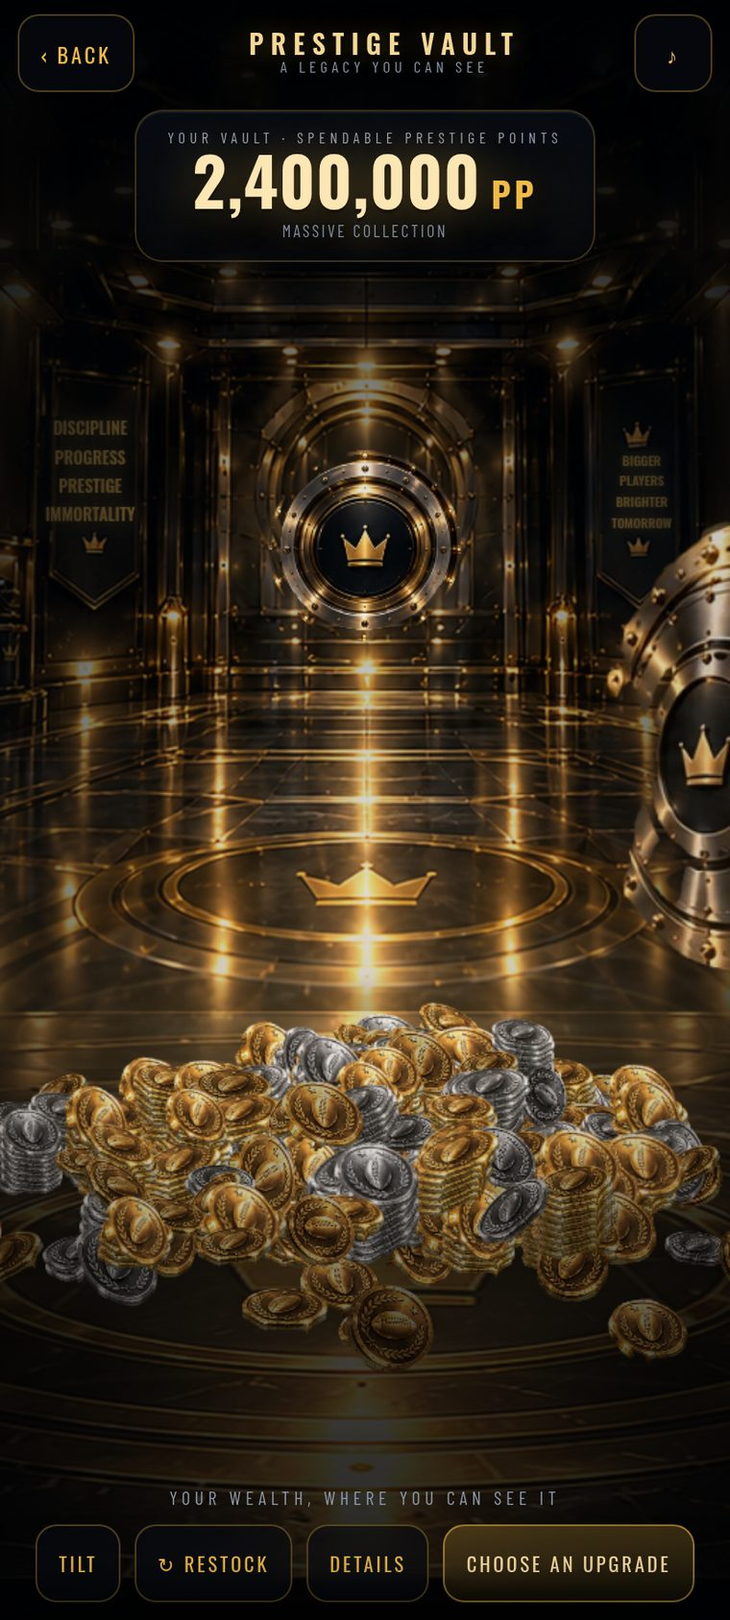
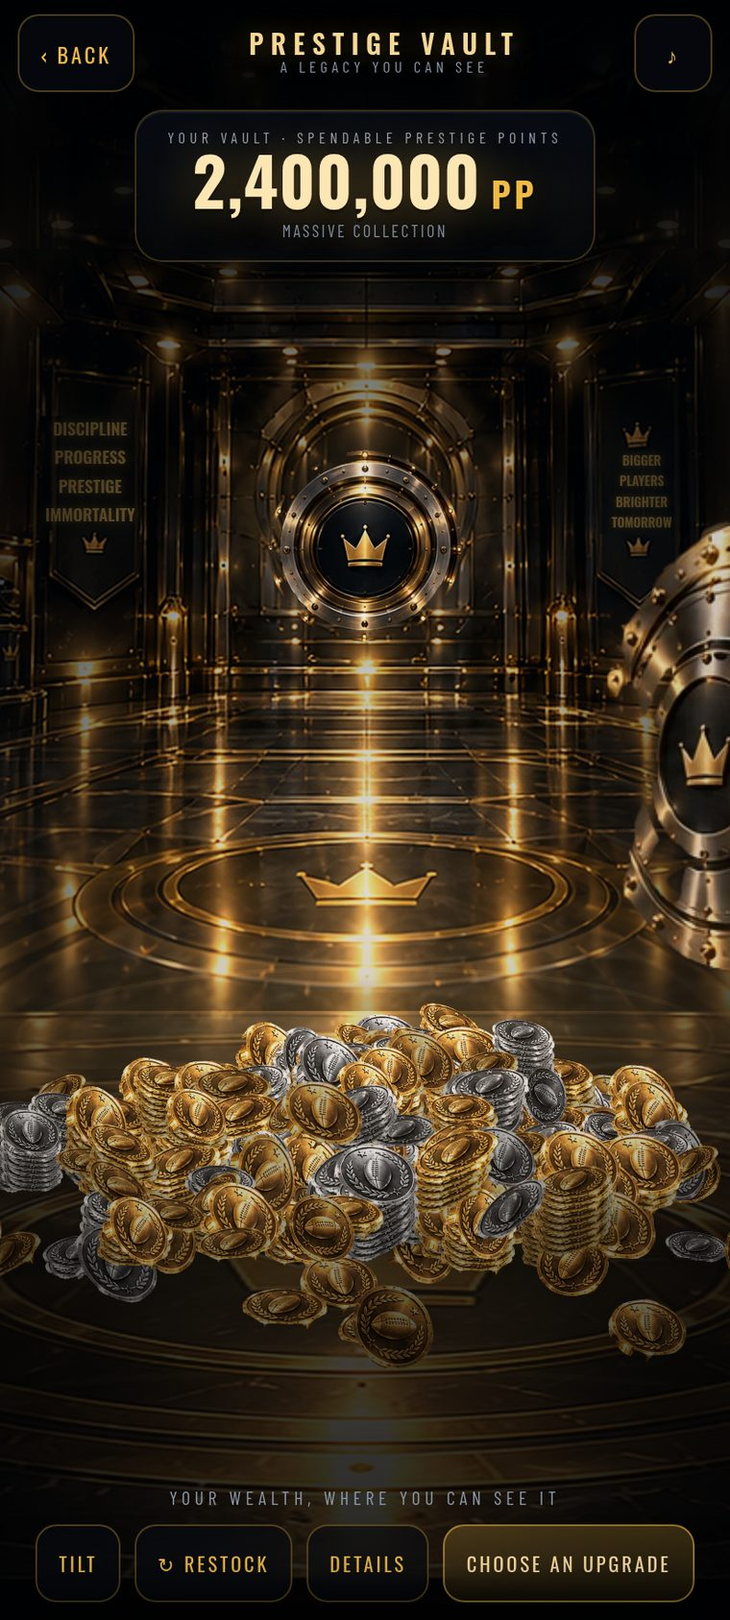
v137 D: the towers topple, the coins roll, and the money stays in the picture
"Coins float in the air and go offscreen. What I wanted is so coins stacked on top of one
another would fall down the pile, roll, etc. Be heavily impacted by gravity, while remaining
on screen."

Measured before touching anything: under a hard tilt, 77 of 90 bodies ended up at gx -1.99
projecting to screen x -298..-34 on a 412-wide phone, and nothing was airborne at all
(maxAir 2e-21). Both symptoms were one cause — the physics room had nothing to do with the
picture.

THE ROOM IS WHAT YOU CAN SEE. The wall was derived from the slot list's own outermost spill,
a ground coordinate with no relation to the viewport: it sat at gx 1.99 where the screen edge
is about 0.8. `limAt(gz)` inverts the projection at the coin's own depth instead, so a coin
stops at the edge of the FRAME whatever the aspect ratio. And gz was free to 0.55 when the
hoard is 0.12 deep, so coins wandered into the back of the room where the perspective draws
them high and small — which is the whole of what "floating in the air" was. Nothing was ever
off the ground; it was standing on the floor behind the heap. The hoard's own spill does
legitimately sit past the frame edge, so a coin that WAKES out there is not teleported in: it
simply cannot go further out, and once it comes inside it is held inside.

A COLUMN COMES APART. A stack was one rigid body, so tipping the phone slid the whole tower
across the floor like a bar of soap and stood it against the wall intact. A driven column now
[…]

Changed region(s): [[0.0, 0.6165, 0.9987, 0.8322], [0.4842, 0.3699, 0.5145, 0.4007], [0.4842, 0.2774, 0.5145, 0.3082]]

diff --git a/public/rib-vault.js b/public/rib-vault.js
@@ -650,7 +650,7 @@
     x.translate(px, py);
     if (rot) x.rotate(rot);
     // the edge of the coin, under its face
-    var thk = (THICK[kind] || 0) * size * (thickMul == null ? 1 : thickMul);
+    var thk = this.lite ? 0 : (THICK[kind] || 0) * size * (thickMul == null ? 1 : thickMul);
     if (thk > 0.55 && size > 8) {
       var rim = this.coinImg(den, kind, 0);
       if (rim) {
@@ -724,7 +724,10 @@
    * light climbs with it, so the top catches more than the buried foot. A fifth of the
    * taller ones carry a coin lying askew across the top. */
   Scene.prototype.drawStack = function (x, sl, den, px, py, size, shadeIx) {
-    var k = sl.cnt, step = size * 0.086;
+    return this.drawStackN(x, sl, den, px, py, size, shadeIx, sl.cnt);
+  };
+  Scene.prototype.drawStackN = function (x, sl, den, px, py, size, shadeIx, n) {
+    var k = Math.max(1, n | 0), step = size * 0.086;
     var wx = Math.cos(sl.lean) * size * 0.085, wy = Math.sin(sl.lean) * size * 0.030;
     var rot = (sl.rot - Math.PI) * 0.16;
     var j, sx, sy, ix;
@@ -735,8 +738,8 @@
       ix = Math.min(3, shadeIx + (j > k * 0.58 ? 1 : 0));    // the light climbs the column
       this.drawCoin(x, den, 'flat', sx, sy, size, rot + t * 0.10, null, ix, null, 0.55);
     }
-    if (sl.capped) {
-      this.drawCoin(x, den, 'hero', px + wx + (Math.random() - 0.5) * 0, py - (k - 0.30) * step,
+    if (sl.capped && k === sl.cnt) {          // the coin lying across the top goes first
+      this.drawCoin(x, den, 'hero', px + wx, py - (k - 0.30) * step,
         size * 0.95, sl.capRot, null, Math.min(3, shadeIx + 1), null);
     }
   };
@@ -744,6 +747,11 @@
   Scene.prototype.drawHoard = function (x) {
     var n = Math.round(this.nShown);
     if (n <= 0) return;
+    /* The live band is deliberately NOT tied to the quality flip. It sets where the deep
+     * layer ends, so changing it changes the bake key and re-draws 1700 sprites on the very
+     * frame the scene decided it was behind — a 160ms stall caused by the attempt to avoid
+     * one. Lite mode saves its frame by dropping the edge pass and capping bodies instead,
+     * neither of which moves this boundary. */
     var live = Math.min(n, Math.max(40, Math.round(this.slots.coins * 0.16)));
     var deepN = Math.max(0, n - live);
     this.bakeDeep(deepN);
@@ -1105,8 +1113,21 @@
     this.drawSparks(x);
     this.drawDoor(x, now);
     this.drawAir(x, now);
-    // an honest frame-time watch: three slow seconds and the scene sheds detail
+    /* ADAPTIVE QUALITY. The worst case is the biggest hoard on a high-density phone with a
+     * tilt running: ~270 live surface coins plus a couple of hundred loose bodies, each of
+     * which draws its face AND its edge. Measured, that is about a thousand drawImage calls
+     * a frame and it falls to the mid thirties. Rather than let it, the scene watches its
+     * own frame time and drops the edge pass and half the live band when it has to — the
+     * hoard loses a little of its metal, and keeps its frame rate. */
     this.frames++;
+    this.ft = this.ft == null ? dt : this.ft * 0.9 + dt * 0.1;
+    /* The flip must NOT force a re-bake: the deep layer is 1700 sprites and re-drawing it
+     * on the frame the scene decided it was struggling costs a 160ms stall, which is the
+     * one thing the decision was made to avoid. It keeps whatever it last baked — a static
+     * backdrop with or without its edge pass is not something the eye catches mid-tilt —
+     * and picks the new setting up on its next ordinary re-bake. */
+    if (this.ft > 21 && !this.lite) this.lite = true;
+    else if (this.ft < 14.5 && this.lite) this.lite = false;
     if (dt > 34) this.slow++; else if (this.slow > 0) this.slow -= 0.02;
   };
 })();
@@ -1889,17 +1910,27 @@
   var M = window.__RIB_VAULT_MODEL, S = window.__RIB_VAULT_SCENE, C = window.__RIB_VAULT_CTRL;
   var Scene = S.Scene, PILE = S.PILE, MOUND = M.MOUND, Vault = C.Vault;
 
-  var MAX_BODIES = 150;          // an intelligently bounded number of moving objects
+  var MAX_BODIES = 420;          /* an intelligently bounded number of moving objects. A
+   * settled shard costs a lookup and a draw, which is what a hoard slot costs anyway, so
+   * the ceiling is about draw calls rather than about physics — and it has to be well clear
+   * of the woken column count or the last towers to reach the wall cannot come apart and
+   * stand there intact while everything around them has collapsed. */
   var SLEEP_V = 0.00035;         // ground units per ms below which a coin is asleep
-  var GRAV = 0.0000105;          // ground units per ms squared
+  var GRAV = 0.0000320;          // ground units per ms squared — coins FALL, they do not drift
   var BOUNCE = 0.34, ROLL = 0.982;
   var MU = 0.42;                 // static friction: metal on metal, and it is most of this
   var SLOPE_K = 0.55;            // ...against the slope a resting hoard already sits on
   var TILT_G = 1.25;             // lateral gravity at full tilt, as a fraction of g
   var STILL_FRAMES = 9;          // consecutive quiet frames before a coin is allowed to sleep
   var TILT_ACCEL = 3.4;          // how hard it drives once the coin has broken loose
-  var MAX_V = 0.0022;            // ground units per ms — the heap is about one unit across
-  var MAX_VY = 0.0030;           // ...and nothing leaves the room upward
+  var MAX_V = 0.0030;            // ground units per ms — the heap is about one unit across
+  var MAX_VY = 0.0060;           // ...and nothing leaves the room upward
+  var SHED_RATE = 0.024;         // chance per ms that a driven column sheds its top coin
+  /* Shedding has to be FAST or the towers survive the trip: at a tenth of this rate a
+   * ten-coin column slid the width of the room still standing up and then stood there
+   * against the wall, which is the one thing a toppling stack must not do. At this rate a
+   * disturbed column is in pieces inside about a third of a second. */
+  var SCREEN_PAD = 26;           // px of viewport a coin is never allowed past
   /* The first pass set MU 0.42 against TILT_G 0.85. A coin's grip is 1 + (m-1)*0.85, so the
    * gold needed 32 degrees of tilt to move and the billion-point coin needed a drive of 0.92
    * against a maximum of 0.85 — it could not move AT ALL, at any angle. These numbers are
@@ -1942,9 +1973,16 @@
     M.reseed();
     this.slots = M.buildSlots(Scene.budget());
     this._bodies = {}; this._nBodies = 0; this.tidyTick = null;
-    this.limX = this.limZ = null;
+    this.limZ = null; this._shardN = 0;
     this.deepKey = ''; this.deepSlots = 0;
     this.setBalance(this.pp, false);
+  };
+
+  /* the widest a coin at this depth can be and still be inside the frame */
+  Scene.prototype.limAt = function (gz) {
+    var k = this.cam.k(PILE.z + gz);
+    var half = (this.cw * 0.5 - SCREEN_PAD) / (k * 0.62 * this.cam.span);
+    return Math.max(0.25, half);
   };
 
   Scene.prototype.bodies = function () { return this._bodies || (this._bodies = {}); };
@@ -1959,13 +1997,55 @@
     var m = massOf(M.denOf(sl, this.mix));
     b[i] = { i: i, gx: sl.x * PILE.dx, gy: sl.y * PILE.dy, gz: sl.z * PILE.dz,
       vx: 0, vy: 0, vz: 0, spin: sl.rot, vs: 0, sleep: false, held: false, t: 0,
-      m: m, bounce: BOUNCE / m, grip: 1 + (m - 1) * 0.85 };
+      cnt: sl.cnt, m: m, bounce: BOUNCE / m, grip: 1 + (m - 1) * 0.85,
+      // the hoard's own outer spill legitimately runs past the frame edge, so a coin that
+      // WAKES out there must not be teleported into view — it is simply not allowed to go
+      // any further out, and once it comes inside the frame it is held inside
+      lim0: Math.abs(sl.x * PILE.dx) };
     this._nBodies = (this._nBodies || 0) + 1;
     return b[i];
   };
   Scene.prototype.sleepAll = function () { this._bodies = {}; this._nBodies = 0; };
 
   /* the tilt the device is at, as a lateral/depth acceleration */
+  /* A COLUMN COMES APART.
+   *
+   * A stack was one rigid body: tip the phone and the whole tower slid across the floor
+   * like a bar of soap, which is not what a stack of coins does. A driven column now SHEDS
+   * from the top — one coin at a time becomes its own body, pushed off the way the heap is
+   * leaning, and it falls and rolls down the slope on its own. The column under it gets
+   * visibly shorter as it goes.
+   *
+   * A shard is not bound to a slot: it is keyed apart so the slot it came from keeps
+   * drawing the coins still in it, and it carries that slot's index only so it knows which
+   * face and which weight it is. RESTOCK deletes shards outright — they have no home to go
+   * back to, and the column they came off is restored by putting its count back. */
+  Scene.prototype.bodyCap = function () { return this.lite ? Math.round(MAX_BODIES * 0.55) : MAX_BODIES; };
+
+  Scene.prototype.shed = function (o) {
+    if (o.shard || o.cnt <= 1) return null;
+    var b = this.bodies();
+    if ((this._nBodies || 0) >= this.bodyCap()) return null;
+    var sl = this.slots.slot[o.i];
+    // the drawn column's step, converted out of screen pixels into ground height
+    var p = this.cam.project(o.gx, o.gy, PILE.z + o.gz, {});
+    var stepPx = p.s * sl.size * 0.086;
+    var lift = Math.max(1e-6, this.cam.k(PILE.z + o.gz) * 0.34 * this.ch);
+    var top = o.gy + (o.cnt - 1) * (stepPx / lift);
+    o.cnt--;
+    var key = 'sh' + (this._shardN = (this._shardN || 0) + 1);
+    var away = (o.gx >= 0 ? 1 : -1);
+    b[key] = { i: o.i, shard: true, cnt: 1,
+      gx: o.gx + away * 0.02, gy: top, gz: o.gz,
+      vx: away * (0.0004 + Math.random() * 0.0011) + o.vx * 0.85,
+      vy: 0.0003 + Math.random() * 0.0004, vz: (Math.random() - 0.5) * 0.0006,
+      spin: sl.rot + Math.random() * 3, vs: (Math.random() - 0.5) * 0.012,
+      sleep: false, held: false, still: 0,
+      m: o.m, bounce: o.bounce, grip: o.grip };
+    this._nBodies++;
+    return b[key];
+  };
+
   Scene.prototype.setTilt = function (gx, gz) {
     this.tiltX = gx; this.tiltZ = gz;
     if (Math.abs(gx) > 0.06 || Math.abs(gz) > 0.06) this.tiltWake();
@@ -1980,7 +2060,8 @@
     var n = M.slotsFor(this.slots, Math.round(this.nShown));
     if (n <= 0) return;
     var lo = Math.max(0, n - Math.max(24, Math.round(this.slots.slot.length * 0.20)));
-    var want = Math.min(MAX_BODIES, 90);
+    var want = Math.min(MAX_BODIES, 80);   // the rest of the budget is for what they shed
+    want = Math.min(want, Math.round(this.bodyCap() * 0.34));
     for (var i = n - 1; i >= lo && (this._nBodies || 0) < want; i--) {
       var bd = this.wake(i);
       if (bd && bd.sleep) bd.sleep = false;
@@ -2049,6 +2130,12 @@
       if (vh > MAX_V) { o.vx *= MAX_V / vh; o.vz *= MAX_V / vh; }
       if (o.vy > MAX_VY) o.vy = MAX_VY;            // a belt on the throw's braces
       if (o.vy < -MAX_VY * 2) o.vy = -MAX_VY * 2;
+      // a column that is being pushed loses its top coin, and that coin goes its own way
+      /* A column sheds when something is PUSHING it sideways — not merely because it is
+       * awake. Including the vertical velocity here meant the first frame of gravity after
+       * a wake (-GRAV*dt, already past the sleep threshold) shed a coin off every column in
+       * the hoard with the phone sitting perfectly level. */
+      if (o.cnt > 1 && (o.driven || vh > SLEEP_V * 2) && Math.random() < SHED_RATE * dt) this.shed(o);
       var gy0 = o.gy;
       o.gx += o.vx * dt; o.gy += o.vy * dt; o.gz += o.vz * dt;
       o.spin += o.vs * dt;
@@ -2066,7 +2153,9 @@
           this.landed(o, hit);                 // the thud, and the dust
         } else o.vy = 0;
         var roll = Math.pow(ROLL, o.grip);
-        o.vx *= roll; o.vz *= roll; o.vs *= 0.93;
+        o.vx *= roll; o.vz *= roll;
+        // it ROLLS: the spin is the ground speed, not a decaying leftover of the throw
+        o.vs = o.vs * 0.55 + (o.vx * 26) * 0.45;
         var sp = Math.abs(o.vx) + Math.abs(o.vz) + Math.abs(o.vy);
         /* A coin that has just broken loose has not reached the sleep threshold YET, so a
          * bare `sp < SLEEP_V` put it to sleep on its very first step and zeroed the velocity
@@ -2080,15 +2169,23 @@
         } else o.still = 0;
       }
       // the room has walls: a coin cannot leave the floor plate
-      /* The room has walls, and they have to be at least as wide as the hoard standing in
-       * it. A fixed 1.55 was narrower than the spilled coins on the heap's own foot reach,
-       * so the first time one of those woke it was teleported inward by up to half a unit —
-       * which is what a "coin jumping for no reason" was. */
-      var lim = this.limX, lz0 = this.limZ;
-      if (lim == null) {
-        lim = this.limX = Math.max(1.55, this.slots.ex * PILE.dx + 0.12);
-        lz0 = this.limZ = Math.max(0.55, this.slots.ez * PILE.dz + 0.06);
-      }
+      /* THE ROOM IS WHAT YOU CAN SEE.
+       *
+       * The wall was derived from the slot list's own outermost spill, which is a ground
+       * coordinate with no relation to the viewport: on a phone it put the wall at gx 1.99
+       * while the screen edge is about gx 0.8, so a tilt slid seventy-seven of ninety coins
+       * clean off the side and left them piled up out of frame. And gz was free to 0.55 when
+       * the hoard itself is only 0.12 deep, so coins wandered into the back of the room
+       * where the perspective draws them high and small — which is what "floating in the
+       * air" was. Nothing was ever actually airborne; it was standing on the floor behind
+       * the heap.
+       *
+       * The bound is now the PICTURE. `limAt` inverts the projection at this coin's own
+       * depth, so whatever the aspect ratio, a coin stops at the edge of the frame. */
+      var frame = this.limAt(o.gz), lz0 = this.limZ;
+      if (lz0 == null) lz0 = this.limZ = PILE.dz * 0.95;
+      if (o.lim0 && Math.abs(o.gx) <= frame) o.lim0 = 0;     // it came in; keep it in
+      var lim = Math.max(frame, o.lim0 || 0);
       if (o.gx < -lim) { o.gx = -lim; o.vx = Math.abs(o.vx) * BOUNCE * 0.5 }
       if (o.gx > lim) { o.gx = lim; o.vx = -Math.abs(o.vx) * BOUNCE * 0.5 }
       if (o.gz < -lz0) { o.gz = -lz0; o.vz = Math.abs(o.vz) * BOUNCE * 0.5 }
@@ -2116,7 +2213,12 @@
   Scene.prototype.tidy = function () {
     var b = this._bodies; if (!b) return 0;
     var n = 0, self = this;
-    for (var k in b) { b[k].homing = true; b[k].sleep = false; b[k].held = false; n++; }
+    for (var k in b) {
+      if (b[k].shard) { delete b[k]; this._nBodies = Math.max(0, this._nBodies - 1); n++; continue; }
+      b[k].homing = true; b[k].sleep = false; b[k].held = false;
+      b[k].cnt = this.slots.slot[b[k].i].cnt;      // the column gets its coins back
+      n++;
+    }
     var t0 = performance.now();
     this.tidyTick = function (now) {
       var bb = self._bodies; if (!bb) { self.tidyTick = null; return }
@@ -2140,7 +2242,8 @@
   Scene.prototype.drawRange = function (x, from, to, withShadow) {
     var b = this._bodies;
     if (!b) return baseRange.call(this, x, from, to, withShadow);
-    // the settled hoard first, minus anything that has been knocked loose...
+    // the settled hoard first, minus anything that has been knocked loose. Shards are keyed
+    // apart ('sh12'), so the slot they came off keeps drawing the coins still in it.
     this._skip = b;
     baseRange.call(this, x, from, to, withShadow);
     this._skip = null;
@@ -2162,9 +2265,10 @@
         x.drawImage(this.blob, g.x - size * 0.8, g.y - size * 0.26, size * 1.6, size * 0.55);
         x.globalAlpha = 1;
       }
-      if (sl.cnt > 1) this.drawStack(x, sl, den, p.x, p.y, size, shadeIx);
-      else this.drawCoin(x, den, sl.face, p.x, p.y, size * (o.held ? 1.16 : 1), o.spin,
-        null, shadeIx, sl.face === 'face' ? 0.06 + sl.tilt * 0.40 : null);
+      if (o.cnt > 1) this.drawStackN(x, sl, den, p.x, p.y, size, shadeIx, o.cnt);
+      else this.drawCoin(x, den, o.shard ? 'flat' : sl.face, p.x, p.y,
+        size * (o.held ? 1.16 : 1), o.spin, null, shadeIx,
+        (!o.shard && sl.face === 'face') ? 0.06 + sl.tilt * 0.40 : null);
     }
   };
 

diff --git a/scripts/README.md b/scripts/README.md
@@ -16,7 +16,7 @@ so it does not need a dev server; set `CHROME_PATH` when Chromium is elsewhere.
 
 | Script | What it verifies |
 |---|---|
-| `vaultcheck.mjs` | **The Prestige Vault (v137).** 52 assertions. The money first: the four coin faces decompose the balance exactly, a completed purchase debits the price once and grants one level, five commits in a row still debit one, twenty-five rapid taps spend a whole price or nothing, a cancel or a reload mid-pour debits nothing, a locked node is refused at the door, a maxed node falls through to the game, banked PP is never in the balance, and replaying the career payout creates no PP. Then the room: every sprite loads, the hoard is deterministic and keeps its coins in place as the balance moves, a tap detaches a real surface coin, reduced motion emits no particles and skips the door, mute persists, two deliberately missing sheets degrade without throwing, the frame holds 60 fps under a 16x pour, and the loop stops when the vault closes. Then the loose money: a coin can be picked up and dragged off the heap and falls back ON to it, weight is real (the same shove carries a bronze coin further than a gold one and a gold further than a billion), a tilt slides the money the way the phone is tipped with the number of moving coins capped, and RESTOCK empties the displacement map — or re-pours the same money into a different heap — without touching a Prestige Point. The sensor is driven through the REAL `deviceorientation` handler, so the checks cover what a phone actually sends: neutral is wherever it is being held rather than a hard-coded angle, a small wrist roll registers and a real tilt saturates, every denomination breaks loose at a reachable angle (bronze 9 degrees, gold 14, the billion-point coin 18) in that order, a loose coin travels about a heap-width a second, a level hoard sits at its angle of repose instead of creeping, and a coin thrown as hard as a finger can flick it leaves the hand at a sane speed and never leaves the room. |
+| `vaultcheck.mjs` | **The Prestige Vault (v137).** 52 assertions. The money first: the four coin faces decompose the balance exactly, a completed purchase debits the price once and grants one level, five commits in a row still debit one, twenty-five rapid taps spend a whole price or nothing, a cancel or a reload mid-pour debits nothing, a locked node is refused at the door, a maxed node falls through to the game, banked PP is never in the balance, and replaying the career payout creates no PP. Then the room: every sprite loads, the hoard is deterministic and keeps its coins in place as the balance moves, a tap detaches a real surface coin, reduced motion emits no particles and skips the door, mute persists, two deliberately missing sheets degrade without throwing, the frame holds 60 fps under a 16x pour, and the loop stops when the vault closes. Then the loose money: a coin can be picked up and dragged off the heap and falls back ON to it, weight is real (the same shove carries a bronze coin further than a gold one and a gold further than a billion), a tilt slides the money the way the phone is tipped with the number of moving coins capped, and RESTOCK empties the displacement map — or re-pours the same money into a different heap — without touching a Prestige Point. The sensor is driven through the REAL `deviceorientation` handler, so the checks cover what a phone actually sends: neutral is wherever it is being held rather than a hard-coded angle, a small wrist roll registers and a real tilt saturates, every denomination breaks loose at a reachable angle (bronze 9 degrees, gold 14, the billion-point coin 18) in that order, a loose coin travels about a heap-width a second, a level hoard sits at its angle of repose instead of creeping, and a coin thrown as hard as a finger can flick it leaves the hand at a sane speed and never leaves the room. It also holds the picture: a hard tilt never pushes a coin that was IN frame off the side of it, nothing is left standing in the air once it settles, a driven column SHEDS its coins off the top instead of sliding across the floor as an intact tower, and RESTOCK puts them back. |
 | `creditcheck.mjs` | **Tackle-credit truth.** Sims 60 games as an LB, wraps `__FieldSim.run/pass` to record who the sim actually named tackler/assist, and asserts the credited tackle stat never exceeds sim-truth + sacks. Exits non-zero on violation. |
 | `statcreditcheck.mjs` | Box score may only credit plays the user's roster actor actually made or was in the pile for (all stats, several positions). |
 | `v117check.mjs` | **One man, one slot.** Sims 30 games and reads each snap's actor list: no roster player may hold two markers at once (the you-player is the probe — he is the man the old pool draw doubled, on 56% of his defensive snaps), both sides still field eleven at the labels the formation asks for, and the you-player must see more than one alignment inside his position group instead of being nailed to the first matching slot. Prints his slot histogram and his share of the named tackles on his own snaps. `POS` / `GAMES` override the sample. Exits non-zero on violation. |

diff --git a/docs/PRESTIGE-VAULT.md b/docs/PRESTIGE-VAULT.md
@@ -169,7 +169,15 @@ a hundred worth a million each is the honest picture of that balance, and it is 
 reference hero shows. `breakdown()` is the exact decomposition and it is what the details
 drawer prints; `vaultcheck` asserts it conserves the balance to the point.
 
-**Bounded**: 620 / 980 / 1350 slots by device pixels and memory. Two layers — a baked deep
+**Adaptive**: the scene watches its own frame time. The worst case is the biggest hoard on a
+high-density phone with a tilt running — about 270 live surface coins plus a couple of
+hundred loose bodies, each drawing a face *and* an edge, which measures out near a thousand
+`drawImage` calls a frame and falls to the mid thirties. Past 21 ms it drops the edge pass
+and caps the bodies, and comes back under 14.5 ms. The flip deliberately does **not** move
+the live band or force a re-bake: doing either re-draws 1700 sprites on the very frame the
+scene decided it was behind, which is a 160 ms stall caused by trying to avoid one.
+
+**Bounded**: 1050 / 1700 / 2400 coins by device pixels and memory. Two layers — a baked deep
 canvas re-drawn only when the quantised count moves, and a live surface of ≤16% drawn every
 frame — so a 16× pour re-bakes a few times a second rather than sixty. Coins are pre-shaded
 into four brightness steps at load, so the hoard is a straight run of `drawImage` calls.
@@ -218,16 +226,36 @@ exactly the hoard again, which is what RESTOCK does.
   the clock and clamped (`THROW_V`, `THROW_VY`). A pointermove stream is 60–120 Hz and
   irregular, so a per-event displacement used as a velocity leaves a coin travelling at the
   sample rate times its real speed.
-- **RESTOCK.** Every disturbed coin flies home to its slot. Press it on an already tidy
-  hoard and it **re-pours** instead: a fresh seed, a visibly different heap of exactly the
-  same money. Neither touches a Prestige Point or changes the coin count, and
-  `vaultcheck.mjs` asserts both.
+- **A column comes apart.** A stack used to be one rigid body: tip the phone and the whole
+  tower slid across the floor like a bar of soap and stood there against the wall, intact.
+  A driven column now **sheds from the top** — one coin at a time becomes its own body,
+  pushed off the way the heap is leaning, and it falls and rolls down the slope while the
+  column under it gets visibly shorter. Shedding has to be fast (`SHED_RATE`) or the towers
+  survive the trip; a disturbed column is in pieces inside about a third of a second. A
+  shard is keyed apart from the slot it came from, so that slot keeps drawing the coins
+  still in it.
+- **The room is what you can see.** `limAt(gz)` inverts the projection at the coin's own
+  depth, so a coin stops at the edge of the *frame* whatever the aspect ratio. Deriving the
+  wall from the slot list's own outermost spill instead put it at gx 1.99 on a phone where
+  the screen edge is about 0.8 — a tilt slid 77 of 90 coins clean off the side. And `gz` is
+  held to the hoard's own depth, because a coin free to wander into the back of the room is
+  drawn high and small by the perspective, which is what "floating in the air" was: nothing
+  was ever airborne, it was standing on the floor behind the heap. The hoard's own spill
+  legitimately sits past the frame edge, so a coin that *wakes* out there is not teleported
+  in — it simply cannot go further out, and once it comes inside it is held inside.
+- **RESTOCK.** Every disturbed coin flies home to its slot and the columns get their shed
+  coins back; shards are deleted, since they have no home. Press it on an already tidy hoard
+  and it **re-pours** instead: a fresh seed, a visibly different heap of exactly the same
+  money. Neither touches a Prestige Point or changes the coin count, and `vaultcheck.mjs`
+  asserts both.
 
 Only coins in the live surface band can be disturbed — the deep layer is a baked canvas and
 moving one of its coins would cost a re-bake per frame. That is also the honest limit: you
 can push the money on top of the pile around, not the money underneath it. Bodies are capped
-at 150 and they **sleep** — but only after `STILL_FRAMES` consecutive quiet frames *and*
-only when nothing is driving them. A bare `speed < threshold` test sleeps a coin on the very
+at `MAX_BODIES` and they **sleep** — but only after `STILL_FRAMES` consecutive quiet frames
+*and* only when nothing is driving them. A column sheds only when something is pushing it
+*sideways*: including the vertical velocity in that test meant the first frame of gravity
+after a wake shed a coin off every column in the hoard with the phone sitting level. A bare `speed < threshold` test sleeps a coin on the very
 frame it breaks loose, before it has accelerated, and zeroes the velocity it was just given.
 
 `surfaceAt(gx, gz)` takes **world** ground units and converts into and out of the slot space

diff --git a/README.md b/README.md
@@ -72,10 +72,11 @@ live via `window.RIB_TUNE[key] = ...` without touching code.
   most of the hoard is stacked in columns rather than scattered loose, every coin draws its own edge
   so it reads as metal rather than a printed circle, and each denomination carries a weight that sets
   how it bounces, how far a shove carries it and how it sounds when it lands. You can pick a coin up
-  and drag it off the heap; you can turn the phone on and tip the money around the floor, held in
-  place by real static friction so the bronze walks off the top at about 9 degrees, the gold at 14
-  and the billion-point coin at 18 — and a hoard held level sits at its angle of repose instead of
-  sliding; and RESTOCK puts every
+  and drag it off the heap; you can turn the phone on and tip the money around the floor — the towers
+  topple, coins shed off the top and roll down the slope to pile on the low side, all of it held in
+  place by real static friction so the bronze walks at about 9 degrees, the gold at 14 and the
+  billion-point coin at 18, a hoard held level sits at its angle of repose instead of sliding, and
+  nothing that was in the picture is ever pushed out of it; and RESTOCK puts every
   disturbed coin back — or, on an already tidy hoard, pours the same money into a different heap.
   None of it touches a Prestige Point. The hoard is a seeded slot list
   that never reshuffles — coin *i* is born at a fixed fullness on the mound as it is at that fullness,

diff --git a/docs/vault-shots/README.md b/docs/vault-shots/README.md
@@ -56,7 +56,7 @@ Captured from the real game in headless Chromium at 412x915 (portrait, DPR 2) an
 
 ![Drag: a coin picked up off the heap, its shadow on the floor under it](13-coin-in-hand.jpg)
 
-### Tilt: the phone tipped left ~26 degrees and the money slumps that way
+### Tilt: the phone tipped left, the towers topple and the money rolls to the low side
 
 ![Tilt: the phone tipped left and the money slumps that way](14-tilted.jpg)
 
